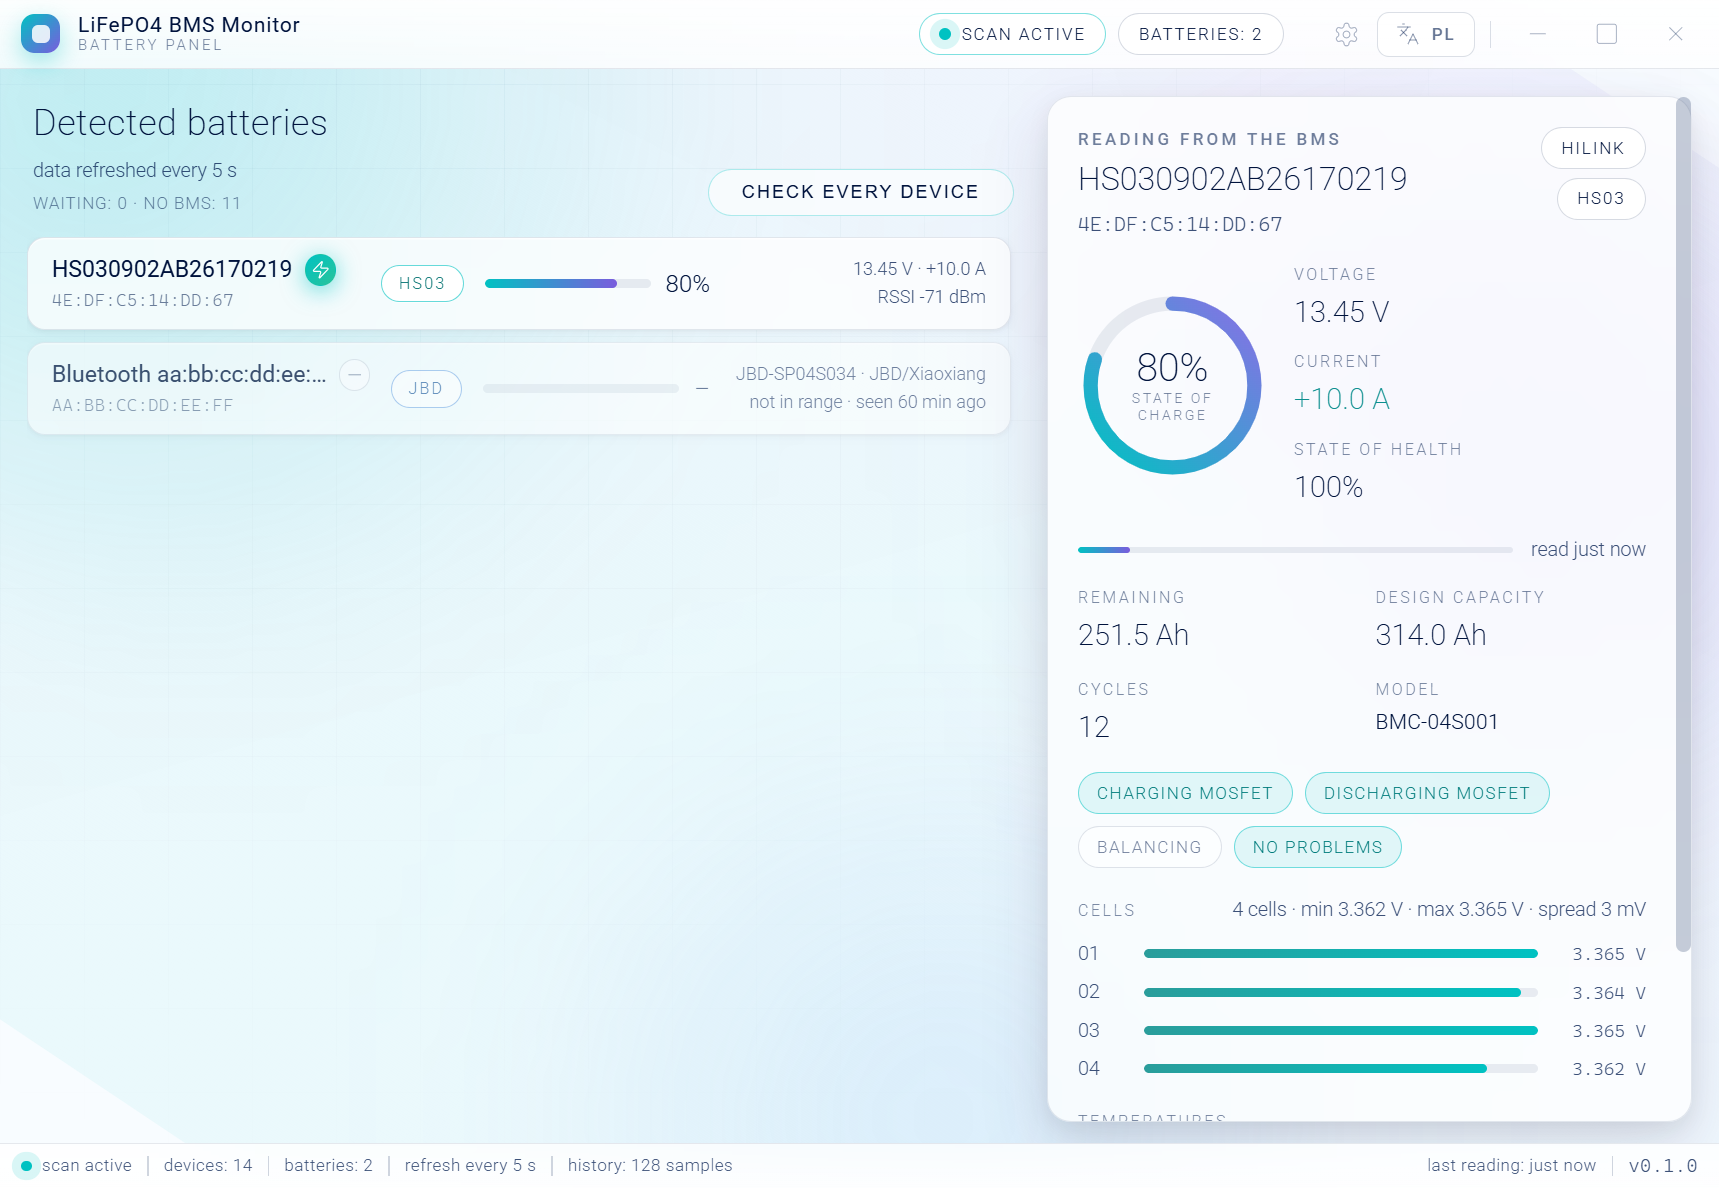
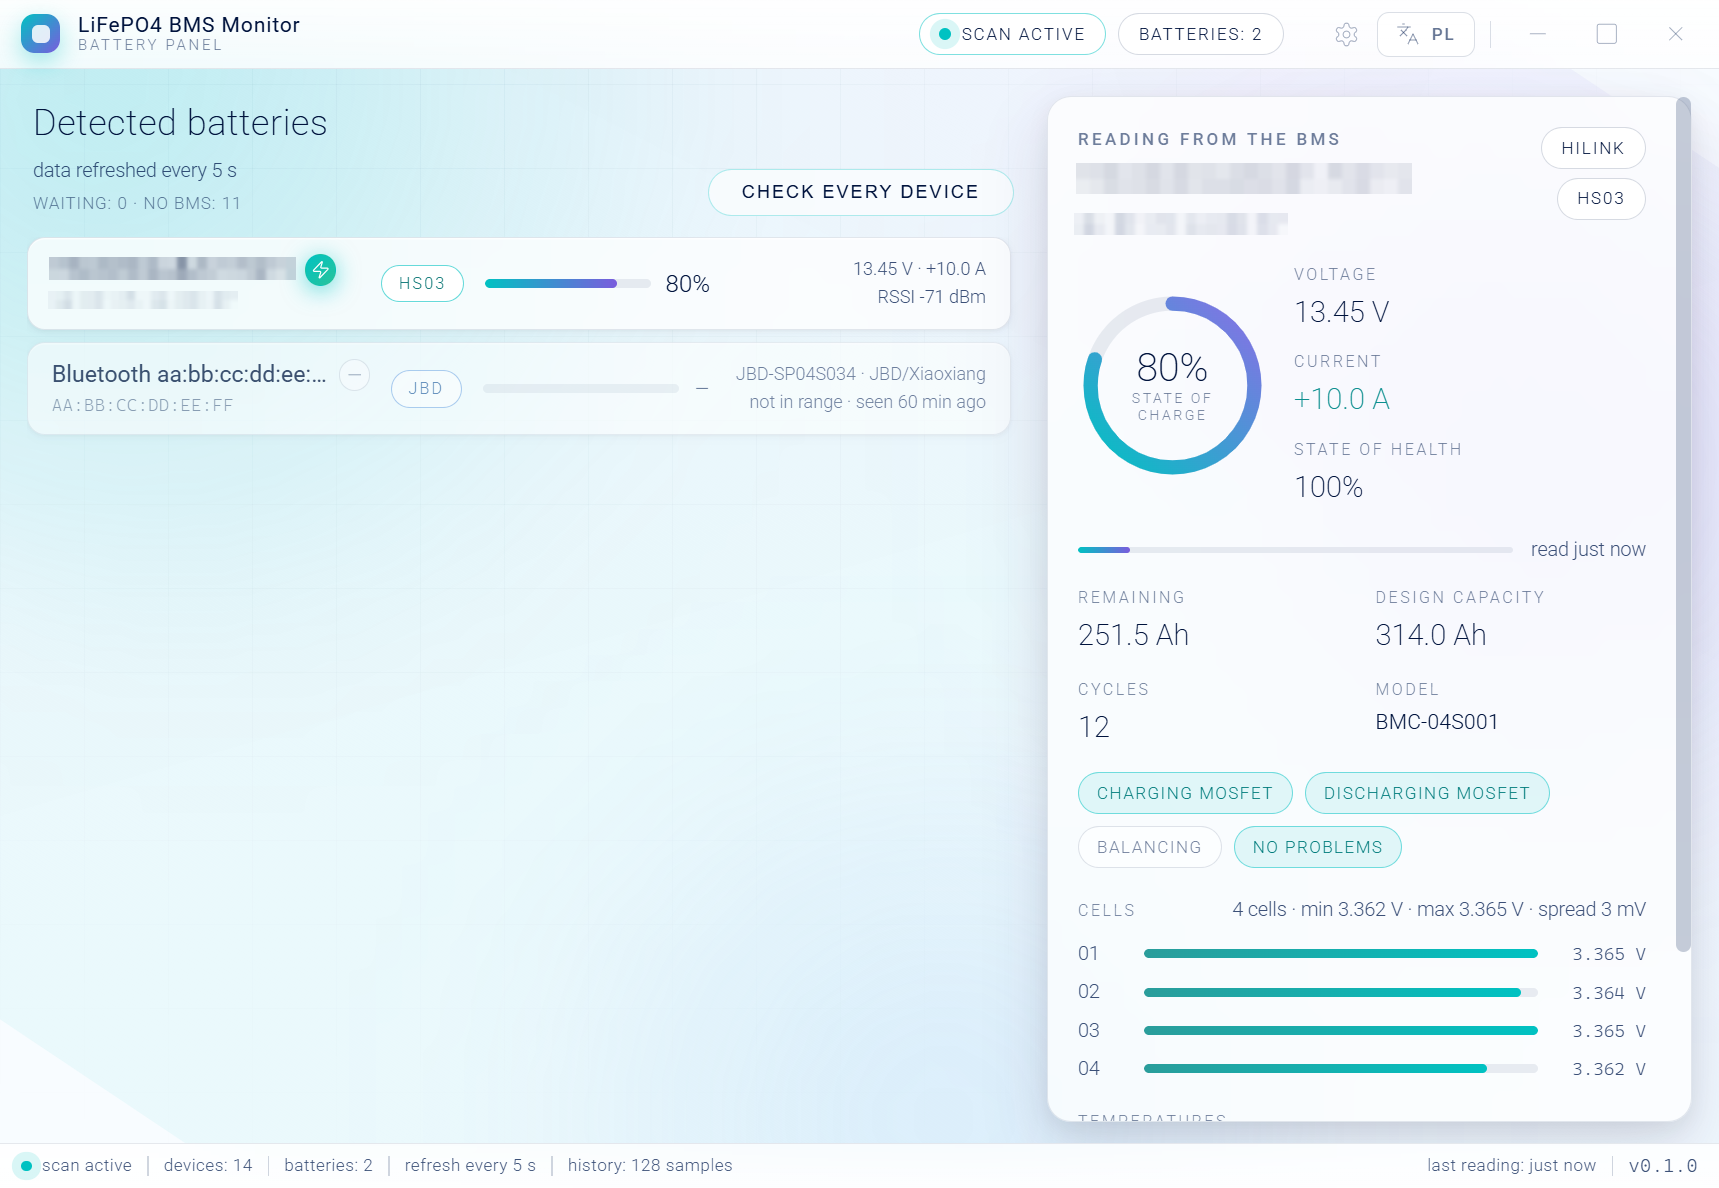
docs: mask battery identifiers in screenshots and examples
Battery serial number, Bluetooth address and the Windows user name are blurred in the README screenshots. JSON examples, tests and comments now use placeholder values (HS000000AA00000000 / 11:22:33:44:55:66 / AA:BB:CC:DD:EE:FF).

Changed region(s): [[0.6166, 0.1246, 0.8016, 0.218], [0.0308, 0.218, 0.185, 0.2492]]

diff --git a/ui/app.js b/ui/app.js
@@ -570,7 +570,7 @@ function cardSignature(batteries) {
 }
 
 // displayLabel is what the interface shows for a device: its name when it has
-// one, otherwise the label Windows uses itself ("Bluetooth 80:2b:f9:d0:d8:e2").
+// one, otherwise the label Windows uses itself ("Bluetooth AA:BB:CC:DD:EE:FF").
 function displayLabel(device) {
   const name = String(device.name || "").trim();
   if (name) return name;

diff --git a/mqtt_test.go b/mqtt_test.go
@@ -12,8 +12,8 @@ import (
 func sampleBattery() storeDevice {
 	soh := 100
 	return storeDevice{
-		Address:  "4E:DF:C5:14:DD:67",
-		Name:     "HS030902AB26170219",
+		Address:  "11:22:33:44:55:66",
+		Name:     "HS000000AA00000000",
 		Model:    "BMC-04S001",
 		Brand:    "HiLink",
 		Protocol: "HS03",
@@ -39,7 +39,7 @@ func sampleBattery() storeDevice {
 }
 
 func TestMQTTSlug(t *testing.T) {
-	if got := mqttSlug("4E:DF:C5:14:DD:67"); got != "4edfc514dd67" {
+	if got := mqttSlug("11:22:33:44:55:66"); got != "112233445566" {
 		t.Errorf("slug: got %q", got)
 	}
 }
@@ -79,7 +79,7 @@ func TestBuildStatePayload(t *testing.T) {
 	if payload["charging"] != true || payload["discharging"] != true || payload["balancing"] != false {
 		t.Errorf("boolean flags wrong: %v %v %v", payload["charging"], payload["discharging"], payload["balancing"])
 	}
-	if payload["address"] != "4E:DF:C5:14:DD:67" || payload["model"] != "BMC-04S001" {
+	if payload["address"] != "11:22:33:44:55:66" || payload["model"] != "BMC-04S001" {
 		t.Errorf("metadata missing: %v / %v", payload["address"], payload["model"])
 	}
 }
@@ -104,7 +104,7 @@ func TestBuildDiscoveryPayloads(t *testing.T) {
 		t.Fatalf("expected %d discovery messages, got %d", len(discoveryEntities), len(payloads))
 	}
 
-	socTopic := "homeassistant/sensor/lifepo4bms_4edfc514dd67/soc/config"
+	socTopic := "homeassistant/sensor/lifepo4bms_112233445566/soc/config"
 	raw, ok := payloads[socTopic]
 	if !ok {
 		t.Fatalf("missing discovery topic %s", socTopic)
@@ -113,10 +113,10 @@ func TestBuildDiscoveryPayloads(t *testing.T) {
 	if err := json.Unmarshal(raw, &message); err != nil {
 		t.Fatalf("discovery payload is not valid JSON: %v", err)
 	}
-	if message["unique_id"] != "lifepo4bms_4edfc514dd67_soc" {
+	if message["unique_id"] != "lifepo4bms_112233445566_soc" {
 		t.Errorf("unique_id: %v", message["unique_id"])
 	}
-	if message["state_topic"] != "lifepo4bms/4edfc514dd67/state" {
+	if message["state_topic"] != "lifepo4bms/112233445566/state" {
 		t.Errorf("state_topic: %v", message["state_topic"])
 	}
 	if message["availability_topic"] != "lifepo4bms/status" {
@@ -132,11 +132,11 @@ func TestBuildDiscoveryPayloads(t *testing.T) {
 	if !ok {
 		t.Fatal("device block missing")
 	}
-	if device["name"] != "HS030902AB26170219" || device["model"] != "BMC-04S001" || device["manufacturer"] != "HiLink" {
+	if device["name"] != "HS000000AA00000000" || device["model"] != "BMC-04S001" || device["manufacturer"] != "HiLink" {
 		t.Errorf("device block: %+v", device)
 	}
 	identifiers, ok := device["identifiers"].([]any)
-	if !ok || len(identifiers) != 1 || identifiers[0] != "lifepo4bms_4edfc514dd67" {
+	if !ok || len(identifiers) != 1 || identifiers[0] != "lifepo4bms_112233445566" {
 		t.Errorf("device identifiers: %+v", device["identifiers"])
 	}
 }

diff --git a/identify_test.go b/identify_test.go
@@ -10,7 +10,7 @@ import (
 
 func TestIsBatteryName(t *testing.T) {
 	cases := map[string]bool{
-		"HS030902AB26170219":          true,
+		"HS000000AA00000000":          true,
 		"hs0309":                      true,
 		"Humsienk-BMS":                true,
 		"ECO-WORTHY 12V":              true,
@@ -21,7 +21,7 @@ func TestIsBatteryName(t *testing.T) {
 		"FnR 6ATAG72R":                false,
 		"soundcore Q20i_BLE":          false,
 		"HLK-LD2450_3059":             false,
-		"Bluetooth 48:49:49:d8:df:2e": false,
+		"Bluetooth AA:BB:CC:DD:EE:FF": false,
 	}
 	for name, want := range cases {
 		if got := isBatteryName(name); got != want {
@@ -31,16 +31,16 @@ func TestIsBatteryName(t *testing.T) {
 }
 
 func TestIsSyntheticName(t *testing.T) {
-	if !isSyntheticName("Bluetooth 48:49:49:d8:df:2e") {
+	if !isSyntheticName("Bluetooth AA:BB:CC:DD:EE:FF") {
 		t.Error("Windows generated labels must be recognised")
 	}
 	if isSyntheticName("Bluetooth Speaker") {
 		t.Error("a friendly name must not be treated as generated")
 	}
-	if isSyntheticName("HS030902AB26170219") {
+	if isSyntheticName("HS000000AA00000000") {
 		t.Error("a battery name must not be treated as generated")
 	}
-	if got := displayName("Bluetooth 48:49:49:d8:df:2e"); got != "" {
+	if got := displayName("Bluetooth AA:BB:CC:DD:EE:FF"); got != "" {
 		t.Errorf("generated names must not be displayed, got %q", got)
 	}
 	if got := displayName(" HS0309 "); got != "HS0309" {

diff --git a/store_test.go b/store_test.go
@@ -11,8 +11,8 @@ import (
 
 func testBattery() DeviceInfo {
 	return DeviceInfo{
-		Address:  "4E:DF:C5:14:DD:67",
-		Name:     "HS030902AB26170219",
+		Address:  "11:22:33:44:55:66",
+		Name:     "HS000000AA00000000",
 		Model:    "BMC-04S001",
 		Brand:    "HiLink",
 		Protocol: "HS03",
@@ -57,7 +57,7 @@ func TestStoreKeepsKnownBatteries(t *testing.T) {
 
 	// A new store instance must read the file back.
 	reopened := NewStore(directory)
-	if known := reopened.Known(); len(known) != 1 || known[0].Name != "HS030902AB26170219" {
+	if known := reopened.Known(); len(known) != 1 || known[0].Name != "HS000000AA00000000" {
 		t.Fatalf("saved devices were not restored: %+v", known)
 	}
 	if _, err := os.Stat(filepath.Join(directory, "devices.json")); err != nil {
@@ -98,7 +98,7 @@ func TestStoreWritesSampleHistory(t *testing.T) {
 		}
 	}
 
-	path := filepath.Join(directory, "history", "4E-DF-C5-14-DD-67.csv")
+	path := filepath.Join(directory, "history", "11-22-33-44-55-66.csv")
 	file, err := os.Open(path)
 	if err != nil {
 		t.Fatalf("history file missing: %v", err)
@@ -146,7 +146,7 @@ func TestStoreWritesSampleHistory(t *testing.T) {
 }
 
 func TestHistoryFileNameIsSafe(t *testing.T) {
-	if got := historyFileName("4E:DF:C5:14:DD:67"); got != "4E-DF-C5-14-DD-67" {
+	if got := historyFileName("11:22:33:44:55:66"); got != "11-22-33-44-55-66" {
 		t.Errorf("got %q", got)
 	}
 	if got := historyFileName(""); got != "unknown" {

diff --git a/cli/tests/test_protocol.py b/cli/tests/test_protocol.py
@@ -368,9 +368,9 @@ class ProtocolTests(unittest.TestCase):
         )
         set_language("en")
 
-        line = format_found_line("HS030902AB26170219", "4E:DF:C5:14:DD:67", -93)
-        self.assertIn("HS030902AB26170219", line)
-        self.assertIn("4E:DF:C5:14:DD:67", line)
+        line = format_found_line("HS000000AA00000000", "11:22:33:44:55:66", -93)
+        self.assertIn("HS000000AA00000000", line)
+        self.assertIn("11:22:33:44:55:66", line)
         self.assertIn("-93 dBm", line)
 
     def test_message_catalogues_share_keys_and_placeholders(self) -> None:

diff --git a/identify.go b/identify.go
@@ -199,7 +199,7 @@ func isBatteryName(name string) bool {
 }
 
 // isSyntheticName reports whether Windows invented the label because the device
-// did not advertise a name (for example "Bluetooth 48:49:49:d8:df:2e").
+// did not advertise a name (for example "Bluetooth AA:BB:CC:DD:EE:FF").
 func isSyntheticName(name string) bool {
 	lower := strings.ToLower(strings.TrimSpace(name))
 	if !strings.HasPrefix(lower, "bluetooth ") {

diff --git a/README.md b/README.md
@@ -15,6 +15,9 @@ read request.
 * Command line tool: Python TUI for quick checks and reports (`cli/`)
 * Battery data and history are stored per user in `%APPDATA%\LiFePO4BMSMonitor`
 
+Battery serial numbers, Bluetooth addresses and the Windows user name are masked
+in the screenshots, and the JSON examples below use placeholder values.
+
 ![Settings](docs/screenshots/settings.png)
 
 ## Supported batteries
@@ -107,7 +110,7 @@ How the interface behaves:
   the scanner sees together with its state (`queued`, `reading`, `no BMS`,
   `no answer`) and signal strength — so it is obvious that the scan works and
   what is around. Devices without an advertised name are shown the way Windows
-  shows them, for example `Bluetooth 80:2b:f9:d0:d8:e2`.
+  shows them, for example `Bluetooth AA:BB:CC:DD:EE:FF`.
 * The window has its own title bar (drag anywhere on it), a language switch and
   a status bar showing scan state, device counts, history size and version.
 * **Check every device** re-probes all visible devices, including the ones that
@@ -147,8 +150,8 @@ so automations keep working with the last known state:
   "count": 1,
   "batteries": [
     {
-      "addr": "4E:DF:C5:14:DD:67",
-      "name": "HS030902AB26170219",
+      "addr": "11:22:33:44:55:66",
+      "name": "HS000000AA00000000",
       "model": "BMC-04S001",
       "brand": "HiLink",
       "protocol": "HS03",
@@ -173,7 +176,7 @@ every reading to `<prefix>/<mac>/state` as JSON:
 
 ```json
 {
-  "address": "4E:DF:C5:14:DD:67", "name": "HS030902AB26170219",
+  "address": "11:22:33:44:55:66", "name": "HS000000AA00000000",
   "voltage": 13.45, "current": 10.04, "soc": 77, "remaining_ah": 242.57,
   "cell_min_v": 3.362, "cell_max_v": 3.363, "cell_delta_mv": 4,
   "temp_min_c": 20, "temp_max_c": 26, "charging": true, "discharging": true
@@ -202,7 +205,7 @@ Everything is kept in the user profile, next to each other:
 ├── settings.json                refresh interval, read API and MQTT configuration
 ├── devices.json                 batteries (with their last reading) + rejected devices
 └── history\
-    └── 4E-DF-C5-14-DD-67.csv    one row per reading (every 5 s while monitoring)
+    └── 11-22-33-44-55-66.csv    one row per reading (every 5 s while monitoring)
 ```
 
 `devices.json` makes the second start instant: known batteries are listed

diff --git a/CHANGELOG.md b/CHANGELOG.md
@@ -30,7 +30,7 @@ and this project adheres to [Semantic Versioning](https://semver.org/spec/v2.0.0
   alphabetically by name (then address) instead of by signal strength, which
   made the rows jump while scanning.
 * Devices without an advertised name are labelled the way Windows labels them
-  (`Bluetooth 80:2b:f9:d0:d8:e2`) instead of showing the bare address.
+  (`Bluetooth AA:BB:CC:DD:EE:FF`) instead of showing the bare address.
 * Only the list scrolls; it reaches down to the status bar and the inner device
   list no longer adds a second scrollbar.
 * The state of charge ring shows the percentage and its caption inside the
@@ -39,6 +39,8 @@ and this project adheres to [Semantic Versioning](https://semver.org/spec/v2.0.0
   a softer colour, so icons and labels line up.
 * Battery rows use a light elevation (small ambient shadow plus a bright inner
   edge) instead of a heavy shadow below the row.
+* Battery serial numbers, Bluetooth addresses and the Windows user name are
+  masked in the screenshots, and the JSON examples use placeholder values.
 
 ### Added
 

diff --git a/docs/protocols.md b/docs/protocols.md
@@ -6,7 +6,7 @@ listed below and validates every reply before it is decoded.
 ## HS03 / HiLink
 
 Used by Humsienk packs and many rebranded 4S–8S batteries (for example
-`HS030902AB26170219`, model `BMC-04S001`).
+`HS000000AA00000000`, model `BMC-04S001`).
 
 | Item | Value |
 |---|---|
